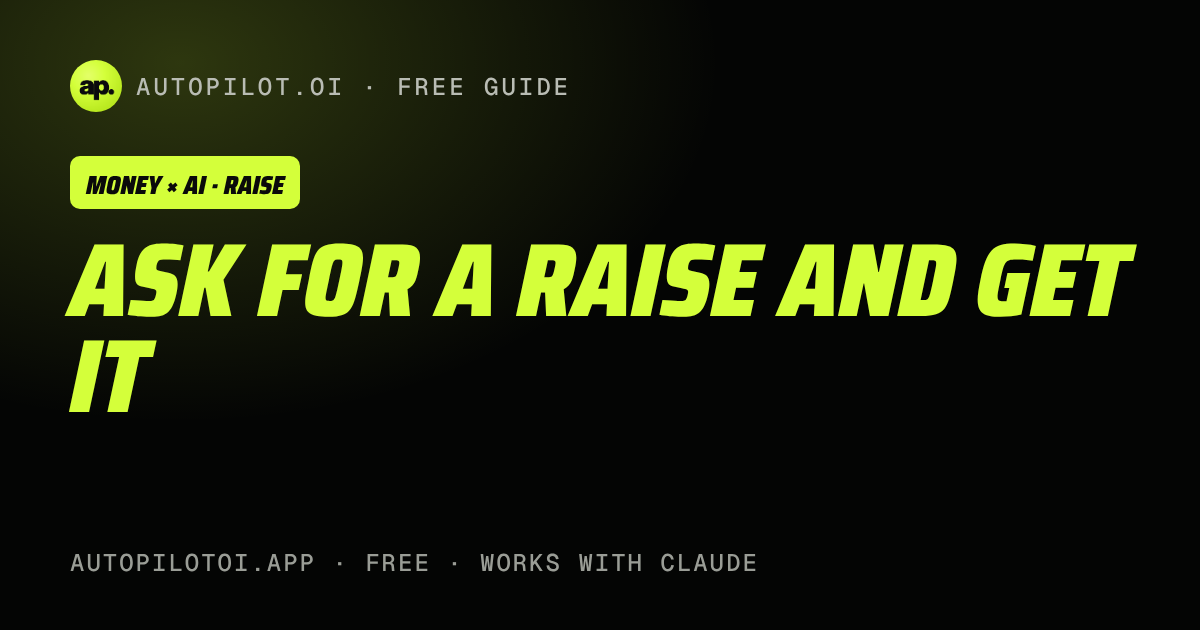
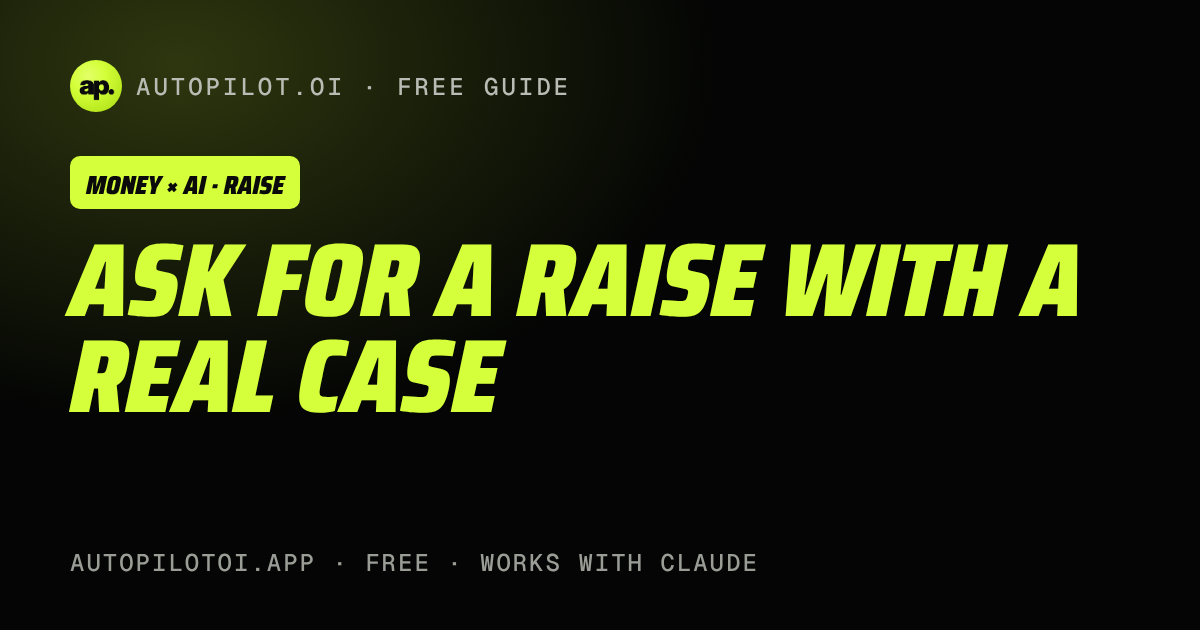
builder: raise guide title no longer promises a result
Claude-Session: https://claude.ai/code/session_01LKQNuEEqoAV8DCpdHfEiGx

Changed region(s): [[0.0617, 0.5429, 0.4317, 0.6635], [0.6475, 0.3619, 0.9558, 0.5127]]

diff --git a/docs/g/raise/index.html b/docs/g/raise/index.html
@@ -1,9 +1,9 @@
 <!DOCTYPE html><html lang="en"><head><meta charset="utf-8"><meta name="viewport" content="width=device-width,initial-scale=1">
-<title>Ask for a raise and get it · Free guide · AUTOPILOT.OI</title><meta name="description" content="Use real pay data and Claude to build your case, practice the conversation, and know exactly what to say when they push back.">
+<title>Ask for a raise with a real case · Free guide · AUTOPILOT.OI</title><meta name="description" content="Use real pay data and Claude to build your case, practice the conversation, and know exactly what to say when they push back.">
 <link rel="canonical" href="https://autopilotoi.app/g/raise/"><meta property="og:type" content="article"><meta property="og:site_name" content="AUTOPILOT.OI">
-<meta property="og:title" content="Ask for a raise and get it (free guide)"><meta property="og:description" content="Use real pay data and Claude to build your case, practice the conversation, and know exactly what to say when they push back."><meta property="og:url" content="https://autopilotoi.app/g/raise/">
+<meta property="og:title" content="Ask for a raise with a real case (free guide)"><meta property="og:description" content="Use real pay data and Claude to build your case, practice the conversation, and know exactly what to say when they push back."><meta property="og:url" content="https://autopilotoi.app/g/raise/">
 <meta property="og:image" content="https://autopilotoi.app/g/raise/og.png"><meta name="twitter:card" content="summary_large_image"><meta name="twitter:image" content="https://autopilotoi.app/g/raise/og.png">
-<script type="application/ld+json">{"@context": "https://schema.org", "@type": "HowTo", "name": "Ask for a raise and get it", "description": "Use real pay data and Claude to build your case, practice the conversation, and know exactly what to say when they push back.", "totalTime": "PT30M", "tool": [{"@type": "HowToTool", "name": "Claude"}], "step": [{"@type": "HowToStep", "position": 1, "name": "Get real pay data", "text": "Look up your job on the Bureau of Labor Statistics wage data. It shows pay ranges (10th to 90th percentile) by job and by city. Then compare job posts for your role: in several states, including California, Colorado, New York and Washington, job ads must include a pay range."}, {"@type": "HowToStep", "position": 2, "name": "Turn your work into proof", "text": "Dump everything you did this year into Claude, messy is fine:"}, {"@type": "HowToStep", "position": 3, "name": "Pick your number", "text": "Give Claude your data and let it build the case:"}, {"@type": "HowToStep", "position": 4, "name": "Write the ask and rehearse it", "text": "Ask for a meeting on its own, not inside a regular check in. Then practice:"}, {"@type": "HowToStep", "position": 5, "name": "If the answer is not now", "text": "Don't leave empty handed. Ask what exactly you need to do to get there, and by when, and get it in writing. Have Claude write the follow up email the same day."}]}</script>
+<script type="application/ld+json">{"@context": "https://schema.org", "@type": "HowTo", "name": "Ask for a raise with a real case", "description": "Use real pay data and Claude to build your case, practice the conversation, and know exactly what to say when they push back.", "totalTime": "PT30M", "tool": [{"@type": "HowToTool", "name": "Claude"}], "step": [{"@type": "HowToStep", "position": 1, "name": "Get real pay data", "text": "Look up your job on the Bureau of Labor Statistics wage data. It shows pay ranges (10th to 90th percentile) by job and by city. Then compare job posts for your role: in several states, including California, Colorado, New York and Washington, job ads must include a pay range."}, {"@type": "HowToStep", "position": 2, "name": "Turn your work into proof", "text": "Dump everything you did this year into Claude, messy is fine:"}, {"@type": "HowToStep", "position": 3, "name": "Pick your number", "text": "Give Claude your data and let it build the case:"}, {"@type": "HowToStep", "position": 4, "name": "Write the ask and rehearse it", "text": "Ask for a meeting on its own, not inside a regular check in. Then practice:"}, {"@type": "HowToStep", "position": 5, "name": "If the answer is not now", "text": "Don't leave empty handed. Ask what exactly you need to do to get there, and by when, and get it in writing. Have Claude write the follow up email the same day."}]}</script>
 <link rel="preconnect" href="https://fonts.googleapis.com"><link rel="preconnect" href="https://fonts.gstatic.com" crossorigin>
 <link href="https://fonts.googleapis.com/css2?family=Geist:wght@400;500;600;700;800&display=swap" rel="stylesheet">
 <style>
@@ -40,7 +40,7 @@ h2{font:900 italic 34px/1 'Saira Semi Condensed',Impact,sans-serif;text-transfor
 .toast{position:fixed;left:50%;bottom:24px;transform:translate(-50%,120px);background:var(--l);color:#0a0a0a;font:700 13px 'Geist Mono',ui-monospace,monospace;padding:12px 18px;border-radius:12px;transition:transform .3s}.toast.on{transform:translate(-50%,0)}
 </style><link rel="stylesheet" href="/assets/brand.css"></head><body><div class="w">
 <div class="top"><img src="../../logo.png" alt=""><b>AUTOPILOT.OI</b><span>FREE GUIDE</span></div>
-<div class="hero"><span class="tag">MONEY × AI · RAISE</span><h1>Ask for a raise and get it</h1><p class="sub">Use real pay data and Claude to build your case, practice the conversation, and know exactly what to say when they push back.</p>
+<div class="hero"><span class="tag">MONEY × AI · RAISE</span><h1>Ask for a raise with a real case</h1><p class="sub">Use real pay data and Claude to build your case, practice the conversation, and know exactly what to say when they push back.</p>
 <div class="topcard" style="display:flex;gap:14px;align-items:center;background:#0e0f0d;border:1px solid #D4FF3A55;border-radius:18px;padding:14px;margin:6px 0 22px"><video src="/media/freel/web/raise-agent.mp4" poster="/media/freel/raise-agent-poster.jpg" autoplay muted loop playsinline preload="metadata" style="width:118px;aspect-ratio:9/16;object-fit:cover;border-radius:12px;flex:0 0 auto;background:#000"></video><div style="min-width:0"><div style="font:700 11px 'Geist Mono',monospace;letter-spacing:1.5px;color:#D4FF3A">DONE FOR YOU</div><div style="font-weight:800;font-size:20px;line-height:1.15;margin:4px 0 6px">Raise Agent</div><div style="font-size:14px;line-height:1.4;opacity:.8;margin-bottom:10px">A Claude Project that tracks your wins all year, keeps your market pay data fresh, and preps you for every pay conversation.</div><a href="https://autopilotoi.gumroad.com/l/raise-agent" style="display:inline-block;background:#D4FF3A;color:#050505;text-decoration:none;font:700 13px 'Geist Mono',monospace;letter-spacing:1.2px;border-radius:10px;padding:11px 14px">GET IT · $10</a><div class="ap-launch-price" style="display:none;font-size:12px;margin-top:6px;color:#D4FF3A">$7 this week with LAUNCH30, applied at checkout</div><div style="font-size:12px;opacity:.6;margin-top:6px">Or follow the free guide below.</div></div></div><div class="meta"><div><b>TIME</b>About 45 minutes</div><div><b>YOU NEED</b>Your job title, location, a list of your wins, and Claude</div><div><b>COST</b>Free</div></div></div>
 <div class="why">Most raises go to people who ask with a clear case: what the market pays, what you&#x27;ve delivered, and a specific number. Claude helps you build all three and rehearse until it feels easy.</div><h2>Step by step</h2>
 <div class="st"><div class="n">1</div><h3>Get real pay data</h3><p>Look up your job on the Bureau of Labor Statistics wage data. It shows pay ranges (10th to 90th percentile) by job and by city. Then compare job posts for your role: in several states, including California, Colorado, New York and Washington, job ads must include a pay range.</p><div class="lk"><a href="https://www.bls.gov/oes/" target="_blank" rel="noopener">BLS wage data by job and area ↗</a><a href="https://data.bls.gov/oes/" target="_blank" rel="noopener">BLS occupation search ↗</a></div></div>

diff --git a/docs/free/index.html b/docs/free/index.html
@@ -126,7 +126,7 @@ details p{color:var(--mut);margin-top:10px;font-size:15px}
  <a class="fr" href="../g/debt/">💸 Lower your interest, get out of debt <span>OPEN →</span></a>
  <a class="fr" href="../g/subs/">✂ Find and kill forgotten subscriptions <span>OPEN →</span></a>
  <a class="fr" href="../g/refund/">↩ Get your money back: refunds and disputes <span>OPEN →</span></a>
- <a class="fr" href="../g/raise/">📈 Ask for a raise and get it <span>OPEN →</span></a>
+ <a class="fr" href="../g/raise/">📈 Ask for a raise with a real case <span>OPEN →</span></a>
  <a class="fr" href="../g/deposit/">🔑 Get your security deposit back <span>OPEN →</span></a>
  <a class="fr" href="../g/video/">🎬 TikToks with AI that plans, edits and posts <span>OPEN →</span></a>
  <a class="fr" href="../g/shop/">🛍 Start selling on TikTok Shop <span>OPEN →</span></a>

diff --git a/tools/guides/guides.py b/tools/guides/guides.py
@@ -93,7 +93,7 @@ G["refund"] = dict(
  sources=[("DOT: airline refunds","https://www.transportation.gov/airconsumer/refunds"),("CFPB: disputing a charge","https://www.consumerfinance.gov/ask-cfpb/how-do-i-dispute-a-charge-on-my-credit-card-bill-en-61/")],
 )
 G["raise"] = dict(
- kw="RAISE", bundle=False, title="Ask for a raise and get it", sub="Use real pay data and Claude to build your case, practice the conversation, and know exactly what to say when they push back.",
+ kw="RAISE", bundle=False, title="Ask for a raise with a real case", sub="Use real pay data and Claude to build your case, practice the conversation, and know exactly what to say when they push back.",
  time="About 45 minutes", need="Your job title, location, a list of your wins, and Claude",
  why="Most raises go to people who ask with a clear case: what the market pays, what you've delivered, and a specific number. Claude helps you build all three and rehearse until it feels easy.",
  steps=[

diff --git a/growth-os/operations/decision-log.md b/growth-os/operations/decision-log.md
@@ -20,3 +20,4 @@
 
 - 2026-11-01 14:40 ART: Seb approved the shift plan ("Yeah"). New scheduled tasks: Hourly analyst (read only, writes the HQ feed), Draft factory (carousel bank every 2h, never posts), Site improver (one tested fix every 3h, approval window Nov 1 to 10, never prices). News Desk step 6 now uses a banked prompts post first. HQ page shows 24 agents incl. 8 GitHub workers via scripts/growthos/hq_feed.py. Rollback: disable the three tasks.
 - 2026-11-01 16:55 ART: builder fixed failing Tests (test_guide_pages_build_reproducibly). Why: sitemap lastmod used today's date on every build and the subs and refund guides had not been rebuilt after the subs-leak and refund-fighter web reels landed, so CI failed. What: tools/guides/build.py now keeps each sitemap lastmod unless that guide's HTML changed; rebuilt docs/g/subs and docs/g/refund (top card now plays the flagship reels). Evidence: pytest 60 passed, two clean rebuilds byte identical, Playwright 390/1280 no overflow, videos load, buy links carry UTM. Rollback: git revert this commit.
+- 2026-11-01 19:40 ART: builder renamed the raise guide title "Ask for a raise and get it" to "Ask for a raise with a real case" (tools/guides/guides.py, rebuilt docs/g/raise + og.png, /free/ row). Why: the old title promises a result, against the guide rule "education only, never promise results" (PLAYBOOK). Evidence: pytest 60 passed after commit, Playwright 390/1280 no overflow, /free/ row opens /g/raise/, buy links keep UTM. Rollback: git revert this commit.
